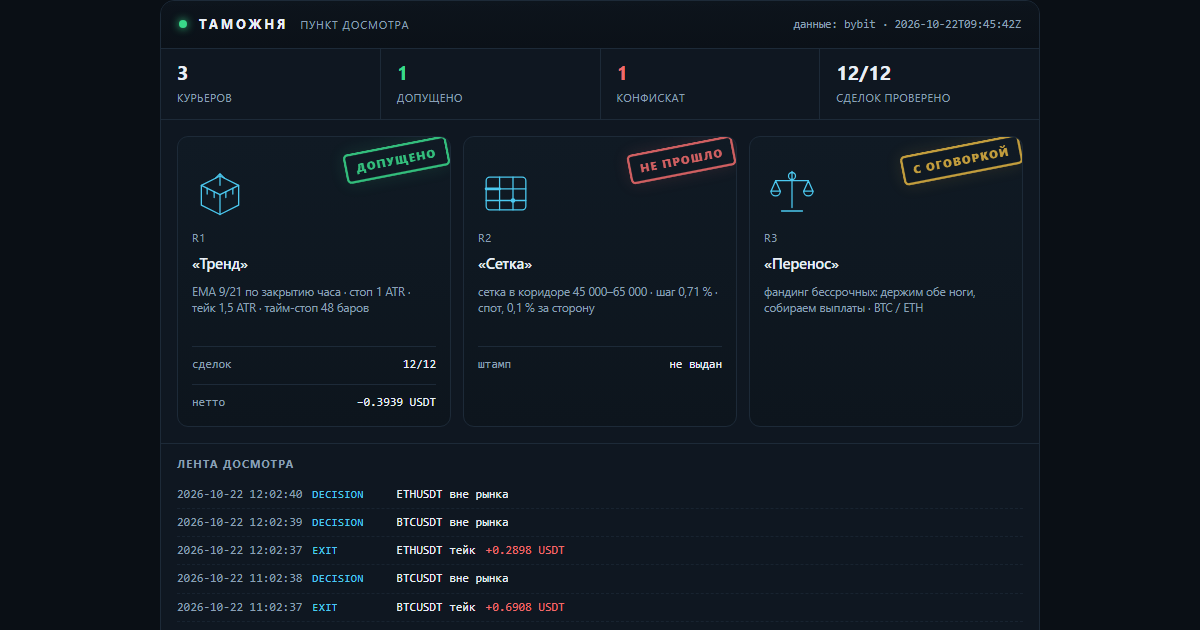
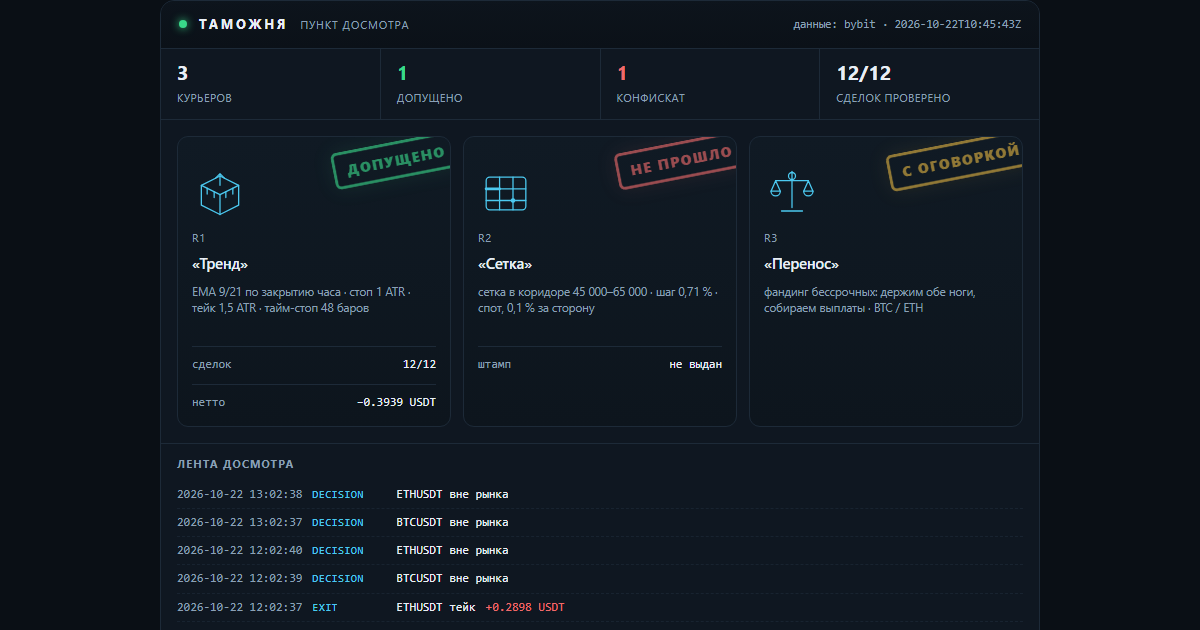
lab: таможня — свежие числа досмотра

diff --git a/docs/customs.html b/docs/customs.html
@@ -16,7 +16,7 @@
   <h1><a href="index.html">Gramwright Lab</a></h1>
   <p>Журнал проверки торговых гипотез: что проверяли, что вышло по факту, сколько съели издержки. Числа берутся из журнала стенда. Не инвестиционная рекомендация.</p>
 </header>
-<h1>Таможня</h1><p class="intro">Пункт досмотра заявленных результатов. Стратегии приезжают с грузом обещаний, и каждая проходит проверку по публичным данным биржи: цены существуют, комиссии по тарифу, нетто сходится. Что прошло — получает штамп. Что не прошло — в конфискат, с причиной. Штамп означает «записи подлинные», а не «стратегия прибыльна».</p><p><img src="img/customs.png" alt="Терминал досмотра: три курьера, штампы, лента событий" style="width:100%;height:auto;border:1px solid var(--line);border-radius:10px"></p><p class="c-note">Сверху — тот же терминал, что собирается из журналов: счётчики, эмблемы курьеров, штампы и лента последних событий. Ниже — то же самое текстом, чтобы читалось с телефона и индексировалось поиском.</p><article><h2>R1 «Тренд» <span class="verdict">— <span class="c-ok">допущено</span></span></h2><p><strong>Правило:</strong> EMA 9/21 по закрытию часа · стоп 1 ATR · тейк 1,5 ATR · тайм-стоп 48 баров</p><p><strong>Декларация:</strong> Заявлено до прогона: держать 30 сделок, лимит нотионала 10 % от счёта, стоп дня −1 %. Прибыль не заявлялась — это важно: курьер не обещал доход.</p><p><strong>Проверено по публичным свечам, без ключей:</strong> 12 из 12 сделок. Сумма нетто −0.3939 USDT.</p><ul class="c-chk"><li class="y">BTCUSDT: нетто −0.8746 USDT · комиссии 0.0901 · проверено · с поправкой</li><li class="y">BTCUSDT: нетто −0.5441 USDT · комиссии 0.0896 · проверено</li><li class="y">ETHUSDT: нетто −0.2253 USDT · комиссии 0.0266 · проверено</li><li class="y">ETHUSDT: нетто −0.1513 USDT · комиссии 0.0265 · проверено</li><li class="y">ETHUSDT: нетто +0.1984 USDT · комиссии 0.0262 · проверено</li><li class="y">ETHUSDT: нетто +0.1617 USDT · комиссии 0.0260 · проверено</li><li class="y">ETHUSDT: нетто +0.2645 USDT · комиссии 0.0263 · проверено</li><li class="y">BTCUSDT: нетто +0.6246 USDT · комиссии 0.0897 · проверено</li><li class="y">BTCUSDT: нетто −0.5881 USDT · комиссии 0.0910 · проверено</li><li class="y">ETHUSDT: нетто −0.2403 USDT · комиссии 0.0270 · проверено</li><li class="y">BTCUSDT: нетто +0.6908 USDT · комиссии 0.0908 · проверено</li><li class="y">ETHUSDT: нетто +0.2898 USDT · комиссии 0.0267 · проверено</li></ul><p class="tags">журнал sha256 cd8363494ad65759… · проверяльщик verify-1</p><p class="c-note">Штамп означает: записи подлинные, а не что стратегия прибыльна. Курьер в минусе, и минус тоже стоит на штампе — иначе это была бы не проверка, а реклама.</p><p class="tags">источник: verify-report.json</p></article><article><h2>R2 «Сетка» <span class="verdict">— <span class="c-bad">не прошло</span></span></h2><p><strong>Правило:</strong> сетка в коридоре 45 000–65 000 · шаг 0,71 % · спот, 0,1 % за сторону</p><p><strong>Декларация:</strong> Заявлено: «44 % урожая уходит бирже в виде комиссий». Кроме того — перевес над простым владением монетой.</p><p><strong>Что сошлось:</strong></p><ul class="c-chk"><li class="y">сами числа пересчитаны и воспроизводятся: коридор 45–65k был активен 23 % всей истории и 28 % последних двух лет</li></ul><p><strong>Что не сошлось:</strong></p><ul class="c-chk"><li class="n">44 % не подтвердилось: при шаге 0,71 % и тарифе 0,1 % комиссия съедает 28,3 % шага. Чтобы получить 44 %, нужен шаг 0,45 % — это около 80 уровней, а не 50</li><li class="n">от урожая доля комиссий 85,5 % за всю историю и 49,6 % за последние два года — тоже не 44 %</li><li class="n">перевес над владением посчитан на тарифе 0,055 %: при нём +1,32 п. п., на розничном 0,1 % — −0,72 п. п. То есть перевес исчезает</li><li class="n">семилетний тест стартовал в сентябре 2019 при биткоине около 10 000 — ниже коридора. Он говорит, что фиксированный коридор не подходит для периода, а не что сетка отстаёт</li></ul><p class="tags">источник: lab_grid.py, пересчёт 17.10.2026</p></article><article><h2>R3 «Перенос» <span class="verdict">— <span class="c-warn">с оговоркой</span></span></h2><p><strong>Правило:</strong> фандинг бессрочных: держим обе ноги, собираем выплаты · BTC / ETH</p><p><strong>Декларация:</strong> Заявлено: около 11,9 % в год от выплат фандинга при просадке выплатной кривой меньше 2 %.</p><p><strong>Что сошлось:</strong></p><ul class="c-chk"><li class="y">выплаты взяты из публичной истории биржи, ключей не нужно: BTC — 7 190 выплат с 25.03.2020, ETH — 6 561 с 21.10.2020</li><li class="y">сумма сходится: +83,4 % и +83,2 % за 6,6 и 6,0 года — те самые ~11,9 % в год</li><li class="y">худшая просадка выплатной кривой: −1,65 % и −1,97 %</li></ul><p><strong>Что не сошлось:</strong></p><ul class="c-chk"><li class="n">оговорка 1: премию сжали — 2021 год дал +38,3 %, 2026 — +1,96 %. Прошлое не повторяется</li><li class="n">оговорка 2: вход-выход стоит около 0,31 %, капитала нужно 1,2 от нотионала, текущий базис −0,082 % против входа</li><li class="n">оговорка 3: риск площадки. История FTX в этой же таблице выглядела так же прилично</li></ul><p class="tags">источник: публичная история фандинга Bybit, замер 17.10.2026</p></article><div class="c-conf"><h3>Конфискат</h3><p><strong>«Сетка»: заявленные 44 % комиссий не подтвердились.</strong> Досмотр показал 28,3 % от шага и 85,5 % от урожая — цифра хуже заявленной по форме, но лучше по смыслу: сетку убивает не размер шага, а то, что урожай почти весь уходит в комиссии. Это и вышло в выпуск — с поправкой, а не с красивой цифрой.</p></div><p class="c-note">Пломба: <code>2026-10-22T09:45:42Z</code> · нотариус FreeTSA · Oct 22 09:45:42 2026 GMT · подпись подтверждена. Манифест скрепляет отчёт проверки, журнал сделок и декларации курьеров: подменишь любую цифру — пломба перестанет сходиться.</p><p class="c-note">Досмотр идёт по публичным минутным свечам и публичной истории фандинга — ключей у проверяющего нет, и он может повторить проверку сам.</p><p class="c-note">Контент образовательный, не является инвестиционной рекомендацией. Торговля связана с риском потери капитала.</p>
+<h1>Таможня</h1><p class="intro">Пункт досмотра заявленных результатов. Стратегии приезжают с грузом обещаний, и каждая проходит проверку по публичным данным биржи: цены существуют, комиссии по тарифу, нетто сходится. Что прошло — получает штамп. Что не прошло — в конфискат, с причиной. Штамп означает «записи подлинные», а не «стратегия прибыльна».</p><p><img src="img/customs.png" alt="Терминал досмотра: три курьера, штампы, лента событий" style="width:100%;height:auto;border:1px solid var(--line);border-radius:10px"></p><p class="c-note">Сверху — тот же терминал, что собирается из журналов: счётчики, эмблемы курьеров, штампы и лента последних событий. Ниже — то же самое текстом, чтобы читалось с телефона и индексировалось поиском.</p><article><h2>R1 «Тренд» <span class="verdict">— <span class="c-ok">допущено</span></span></h2><p><strong>Правило:</strong> EMA 9/21 по закрытию часа · стоп 1 ATR · тейк 1,5 ATR · тайм-стоп 48 баров</p><p><strong>Декларация:</strong> Заявлено до прогона: держать 30 сделок, лимит нотионала 10 % от счёта, стоп дня −1 %. Прибыль не заявлялась — это важно: курьер не обещал доход.</p><p><strong>Проверено по публичным свечам, без ключей:</strong> 12 из 12 сделок. Сумма нетто −0.3939 USDT.</p><ul class="c-chk"><li class="y">BTCUSDT: нетто −0.8746 USDT · комиссии 0.0901 · проверено · с поправкой</li><li class="y">BTCUSDT: нетто −0.5441 USDT · комиссии 0.0896 · проверено</li><li class="y">ETHUSDT: нетто −0.2253 USDT · комиссии 0.0266 · проверено</li><li class="y">ETHUSDT: нетто −0.1513 USDT · комиссии 0.0265 · проверено</li><li class="y">ETHUSDT: нетто +0.1984 USDT · комиссии 0.0262 · проверено</li><li class="y">ETHUSDT: нетто +0.1617 USDT · комиссии 0.0260 · проверено</li><li class="y">ETHUSDT: нетто +0.2645 USDT · комиссии 0.0263 · проверено</li><li class="y">BTCUSDT: нетто +0.6246 USDT · комиссии 0.0897 · проверено</li><li class="y">BTCUSDT: нетто −0.5881 USDT · комиссии 0.0910 · проверено</li><li class="y">ETHUSDT: нетто −0.2403 USDT · комиссии 0.0270 · проверено</li><li class="y">BTCUSDT: нетто +0.6908 USDT · комиссии 0.0908 · проверено</li><li class="y">ETHUSDT: нетто +0.2898 USDT · комиссии 0.0267 · проверено</li></ul><p class="tags">журнал sha256 6ebd580ffef13ad5… · проверяльщик verify-1</p><p class="c-note">Штамп означает: записи подлинные, а не что стратегия прибыльна. Курьер в минусе, и минус тоже стоит на штампе — иначе это была бы не проверка, а реклама.</p><p class="tags">источник: verify-report.json</p></article><article><h2>R2 «Сетка» <span class="verdict">— <span class="c-bad">не прошло</span></span></h2><p><strong>Правило:</strong> сетка в коридоре 45 000–65 000 · шаг 0,71 % · спот, 0,1 % за сторону</p><p><strong>Декларация:</strong> Заявлено: «44 % урожая уходит бирже в виде комиссий». Кроме того — перевес над простым владением монетой.</p><p><strong>Что сошлось:</strong></p><ul class="c-chk"><li class="y">сами числа пересчитаны и воспроизводятся: коридор 45–65k был активен 23 % всей истории и 28 % последних двух лет</li></ul><p><strong>Что не сошлось:</strong></p><ul class="c-chk"><li class="n">44 % не подтвердилось: при шаге 0,71 % и тарифе 0,1 % комиссия съедает 28,3 % шага. Чтобы получить 44 %, нужен шаг 0,45 % — это около 80 уровней, а не 50</li><li class="n">от урожая доля комиссий 85,5 % за всю историю и 49,6 % за последние два года — тоже не 44 %</li><li class="n">перевес над владением посчитан на тарифе 0,055 %: при нём +1,32 п. п., на розничном 0,1 % — −0,72 п. п. То есть перевес исчезает</li><li class="n">семилетний тест стартовал в сентябре 2019 при биткоине около 10 000 — ниже коридора. Он говорит, что фиксированный коридор не подходит для периода, а не что сетка отстаёт</li></ul><p class="tags">источник: lab_grid.py, пересчёт 17.10.2026</p></article><article><h2>R3 «Перенос» <span class="verdict">— <span class="c-warn">с оговоркой</span></span></h2><p><strong>Правило:</strong> фандинг бессрочных: держим обе ноги, собираем выплаты · BTC / ETH</p><p><strong>Декларация:</strong> Заявлено: около 11,9 % в год от выплат фандинга при просадке выплатной кривой меньше 2 %.</p><p><strong>Что сошлось:</strong></p><ul class="c-chk"><li class="y">выплаты взяты из публичной истории биржи, ключей не нужно: BTC — 7 190 выплат с 25.03.2020, ETH — 6 561 с 21.10.2020</li><li class="y">сумма сходится: +83,4 % и +83,2 % за 6,6 и 6,0 года — те самые ~11,9 % в год</li><li class="y">худшая просадка выплатной кривой: −1,65 % и −1,97 %</li></ul><p><strong>Что не сошлось:</strong></p><ul class="c-chk"><li class="n">оговорка 1: премию сжали — 2021 год дал +38,3 %, 2026 — +1,96 %. Прошлое не повторяется</li><li class="n">оговорка 2: вход-выход стоит около 0,31 %, капитала нужно 1,2 от нотионала, текущий базис −0,082 % против входа</li><li class="n">оговорка 3: риск площадки. История FTX в этой же таблице выглядела так же прилично</li></ul><p class="tags">источник: публичная история фандинга Bybit, замер 17.10.2026</p></article><div class="c-conf"><h3>Конфискат</h3><p><strong>«Сетка»: заявленные 44 % комиссий не подтвердились.</strong> Досмотр показал 28,3 % от шага и 85,5 % от урожая — цифра хуже заявленной по форме, но лучше по смыслу: сетку убивает не размер шага, а то, что урожай почти весь уходит в комиссии. Это и вышло в выпуск — с поправкой, а не с красивой цифрой.</p></div><p class="c-note">Пломба: <code>2026-10-22T10:45:43Z</code> · нотариус FreeTSA · Oct 22 10:45:43 2026 GMT · подпись подтверждена. Манифест скрепляет отчёт проверки, журнал сделок и декларации курьеров: подменишь любую цифру — пломба перестанет сходиться.</p><p class="c-note">Досмотр идёт по публичным минутным свечам и публичной истории фандинга — ключей у проверяющего нет, и он может повторить проверку сам.</p><p class="c-note">Контент образовательный, не является инвестиционной рекомендацией. Торговля связана с риском потери капитала.</p>
 <footer class="site">
   Код стенда и аудитора: <a href="https://github.com/XSlaidx/truth-engine">XSlaidx/truth-engine</a>
   &middot; <a href="graveyard.html">кладбище правил</a>
